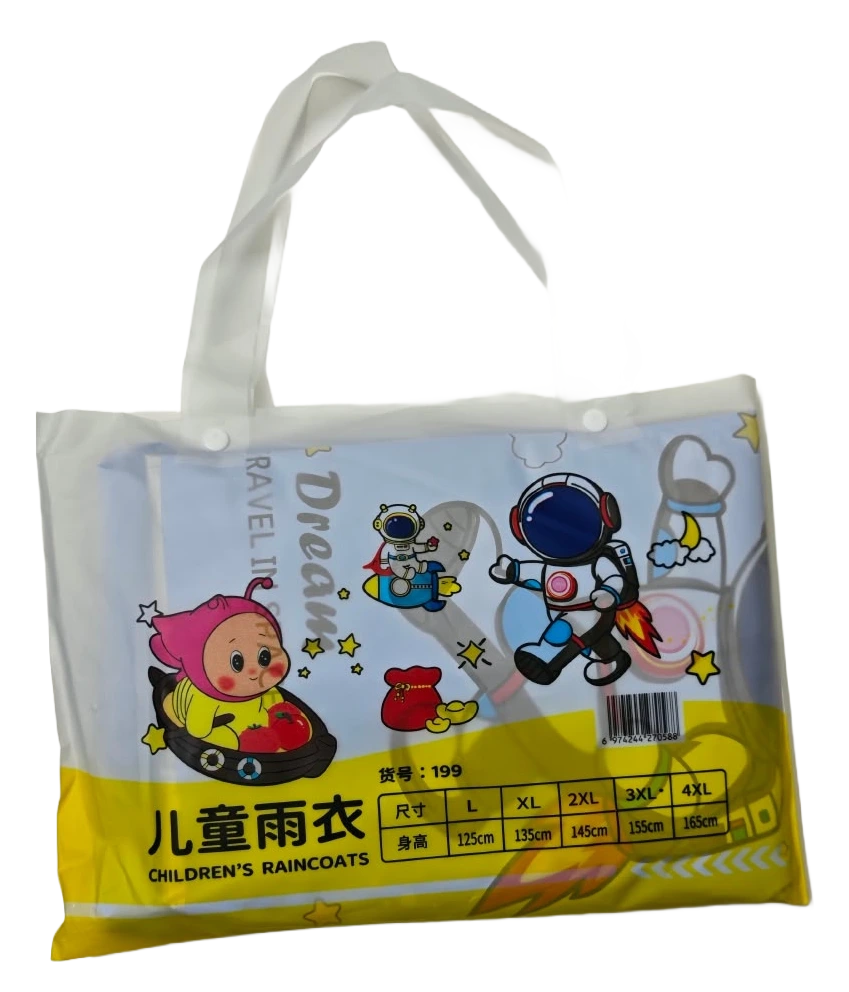
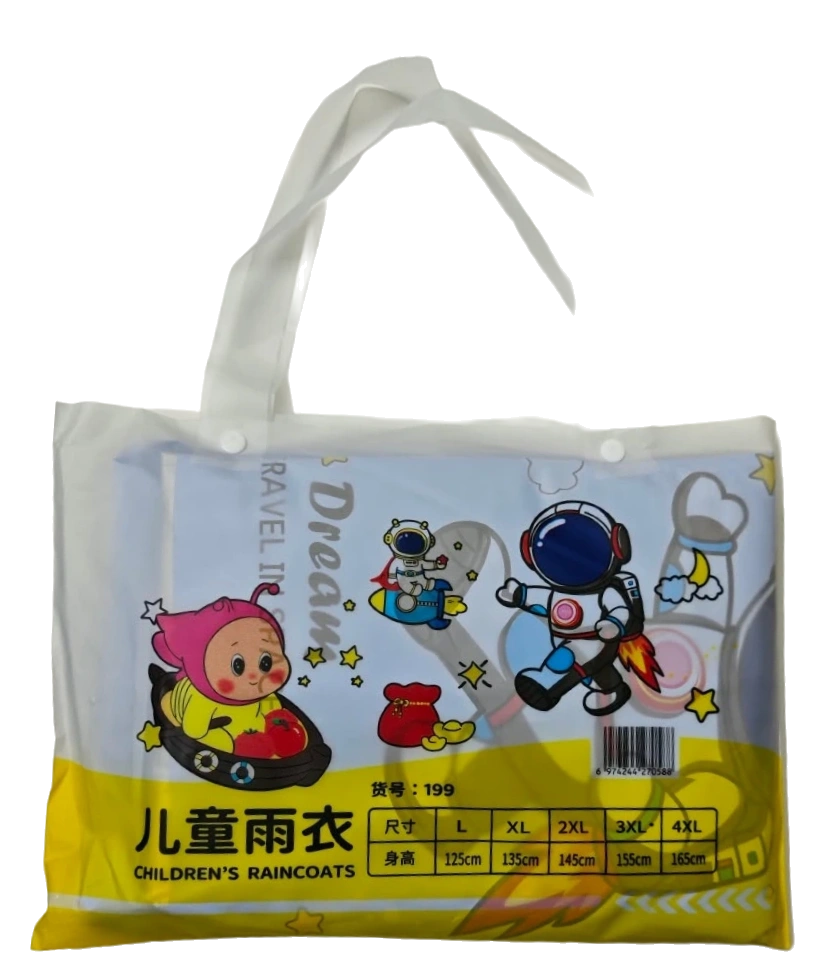
fix(catalog): straighten AGT-133 bag horizontally, clean alpha fringe, and provide generous modal headroom

diff --git a/components/ProductDetail.jsx b/components/ProductDetail.jsx
@@ -112,7 +112,7 @@ export default function ProductDetail({ product, isOpen, onClose, onSelectQuote 
 
     // Upright, professional floating without 3D tilt/rotation (matching e-commerce standard)
     const tween = gsap.to(imageRef.current, {
-      y: -8,
+      y: -5,
       duration: 2.8,
       ease: 'sine.inOut',
       repeat: -1,
@@ -179,7 +179,7 @@ export default function ProductDetail({ product, isOpen, onClose, onSelectQuote 
 
         {/* Product Image Area with Auto-Swipe Carousel matching user's reference */}
         <div
-          className="relative w-full bg-gradient-to-b from-cream-50 via-cream-100/40 to-white px-4 sm:px-6 pt-12 pb-3 flex flex-col items-center justify-center overflow-hidden"
+          className="relative w-full bg-gradient-to-b from-cream-50 via-cream-100/40 to-white px-4 sm:px-6 pt-14 sm:pt-16 pb-3 flex flex-col items-center justify-center overflow-hidden"
           onMouseEnter={() => setIsPaused(true)}
           onMouseLeave={() => setIsPaused(false)}
         >
@@ -200,10 +200,10 @@ export default function ProductDetail({ product, isOpen, onClose, onSelectQuote 
           </div>
 
           {/* Main Upright Product Packshot (Matching Reference Photo) */}
-          <div className="relative w-full flex items-center justify-center my-0.5">
+          <div className="relative w-full flex items-center justify-center mt-1 mb-0.5">
             <div
               ref={imageRef}
-              className="relative z-10 w-full h-48 sm:h-60 flex items-center justify-center product-image-wrap"
+              className="relative z-10 w-full h-44 sm:h-56 flex items-center justify-center product-image-wrap px-2"
             >
               <Image
                 key={currentDisplayImage}
